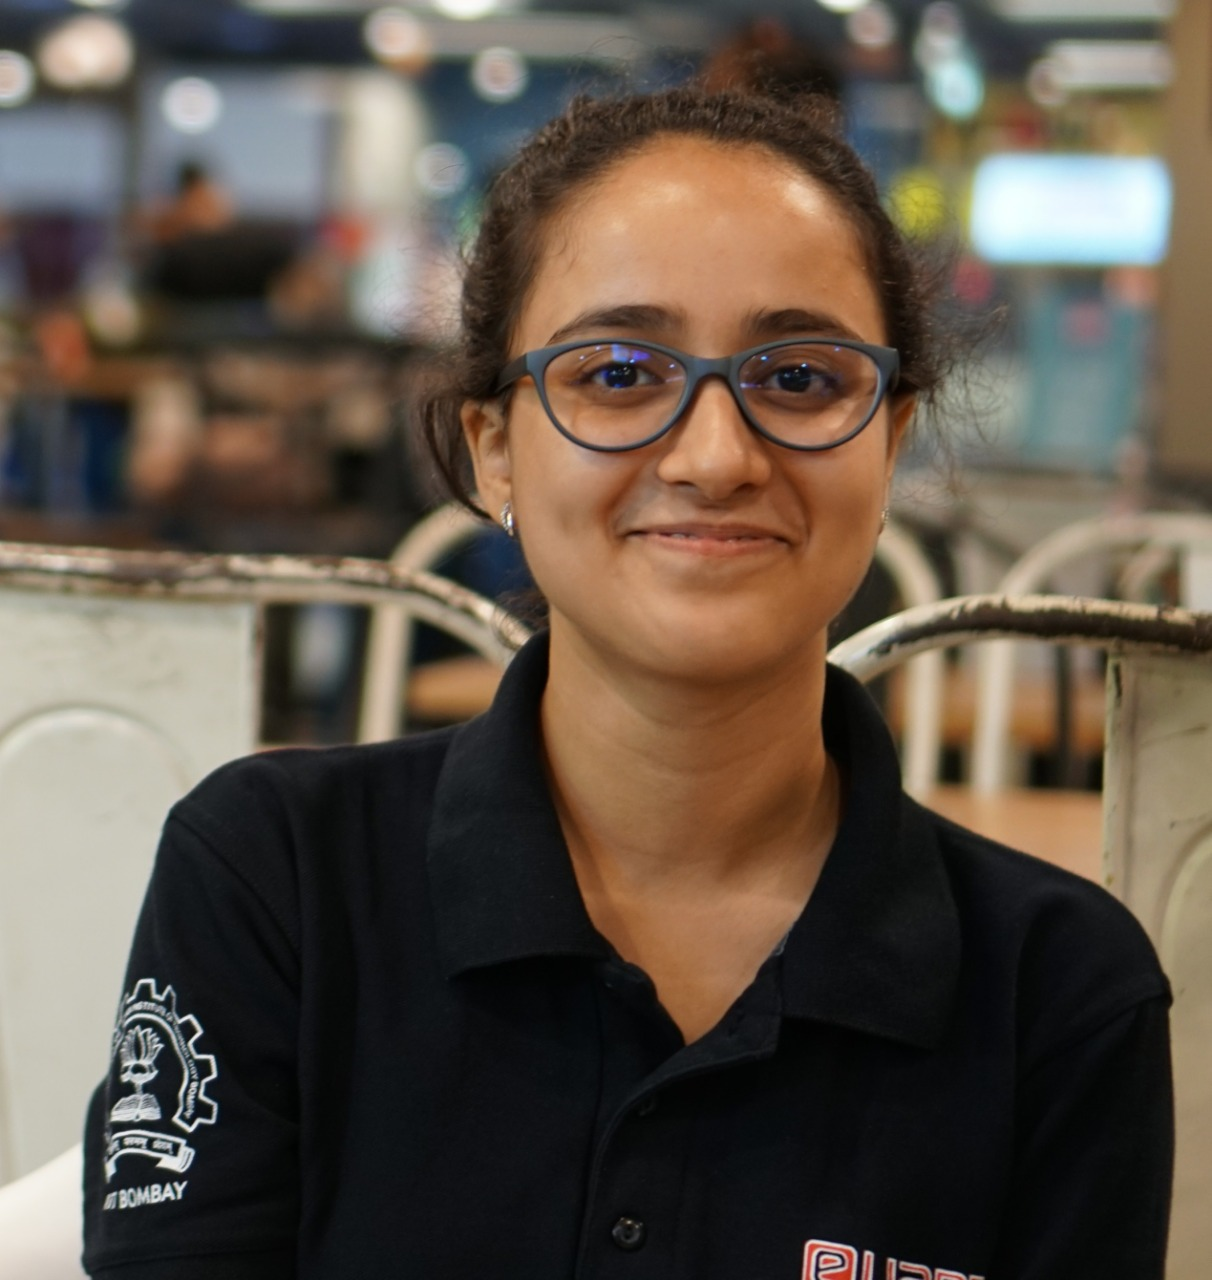
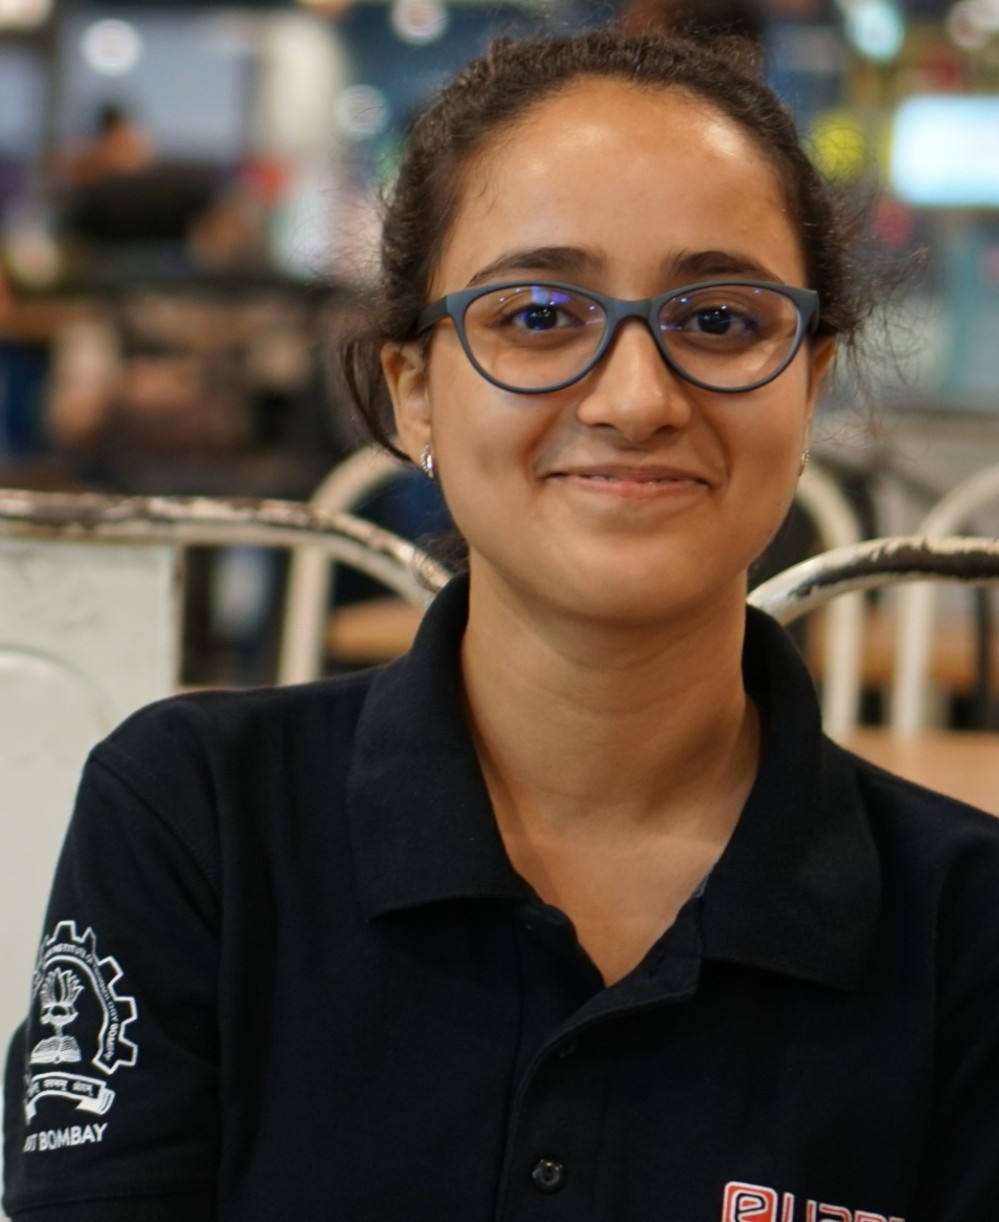
fixing the slow loading

diff --git a/index.html b/index.html
@@ -43,11 +43,11 @@
 						<div class="col-lg-4">
 							<div class="hero-text">
 								<h1>Harshita Diddee</h1>
-								<h5>I am a Pre-Final Computer Science Undergraduate who aspires to build Privacy-Preserving AI architectures. My research interests primarily include On-Device training, Federated Learning and Edge Computing.</h5><br>
+								<h5>I am a Pre-Final Computer Science Undergraduate who aspires to build Privacy-Preserving AI architectures. My research interests primarily include On-Device training, Federated Learning, Edge Computing.</h5><br>
 								<h5>I recently completed my internship at IIT Delhi under The Marconi Society's Celestini Program India where I contributed to the development of <a href="https://vision-air.github.io/">VisionAir</a>.I have also actively participated in several hackathons and other technically competitive platforms with the aim of exploring everything that engineering has to offer.</h5><br><h5>Other than my techincal pursuits, I am a trained Indian Classical Dancer (Odissi) and also a classical vocalist.</h5> </h5>
 							</div>
 						</div>
-						<div class="col-lg-8">
+						<div class="col-lg-9">
 							<figure class="hero-image">
 								<img src="img/hero (copy).jpeg" alt="5">
 							</figure>
@@ -78,7 +78,7 @@
 						<div class="portfolio-item">
 							<a href="img/visionair.jpeg" class="set-bg port-pic" data-setbg="img/visionair.jpeg"></a>
 							<h3>Visionair</h3>
-							<p>Mentored by <a href="http://www.achowdhery.com/">Dr.Aakanksha Chowdhery, Google Brain</p>
+							<p>Mentored by <a href="http://www.achowdhery.com/">Dr.Aakanksha Chowdhery, Google Brain</a></p>
 							<p> A privacy preserving smartphone application that can estimate the Air Quality Index of an image that the user takes. The application uses On-Device training to ensure that no private user data (image, location) is shared with any remote cloud service. VisionAir also uses federated learning to diversify the response of the custome build global model without compromising the privacy of its client devices.</p>
 							<p>Application available on the Google Play Store (Indian Subcontinent only)</p>
 							<a href="https://vision-air.github.io/">Website</a>
@@ -210,7 +210,7 @@
 							<h2>June 2019-Present</h2>
 							<h3>Research Intern</h3>
 							<h4>IIT Delhi, The Marconi Society</h4>
-							<p>Led my team in the Celestini Program India, 2019 where we developmed VisionAir: A privacy preserving smartphone application that can estimate the Air Quality Index of an image that the user takes. The application uses On-Device training to ensure that no private user data (image, location) is shared with any remote cloud service. VisionAir also uses federated learning to diversify the response of the custome build global model without compromising the privacy of its client devices.I build the custom deep learning global model which uses image, temporal and weather data to predict the PM 2.5 from the image that a user takes.</p>
+							<p>Led my team in the Celestini Program India, 2019 where we developed VisionAir: A privacy preserving smartphone application that can estimate the Air Quality Index of an image that the user takes. The application uses On-Device training to ensure that no private user data (image, location) is shared with any remote cloud service. VisionAir also uses federated learning to diversify the response of the custome build global model without compromising the privacy of its client devices.I build the custom deep learning global model which uses image, temporal and weather data to predict the PM 2.5 from the image that a user takes.</p>
 							<p>Mentored by <a href="http://www.achowdhery.com/">Dr.Aakanksha Chowdhery, Google Brain</a></p>
 						</li>
 					</ul>
@@ -233,7 +233,7 @@
 							<h2>2021</h2>
 							<h3>B.Tech</h3>
 							<h4>Bharati Vidyapeeth's College of Engineering, New Delhi</h4>
-							<p>CGPA : 9.2 (Till 4th Semester), Stream Topper</p>
+							<p> Cumalative Grade Point Average : 9.2 (Till 4th Semester)</p>
 						</li>
 						<li>
 							<h2>2017</h2>
